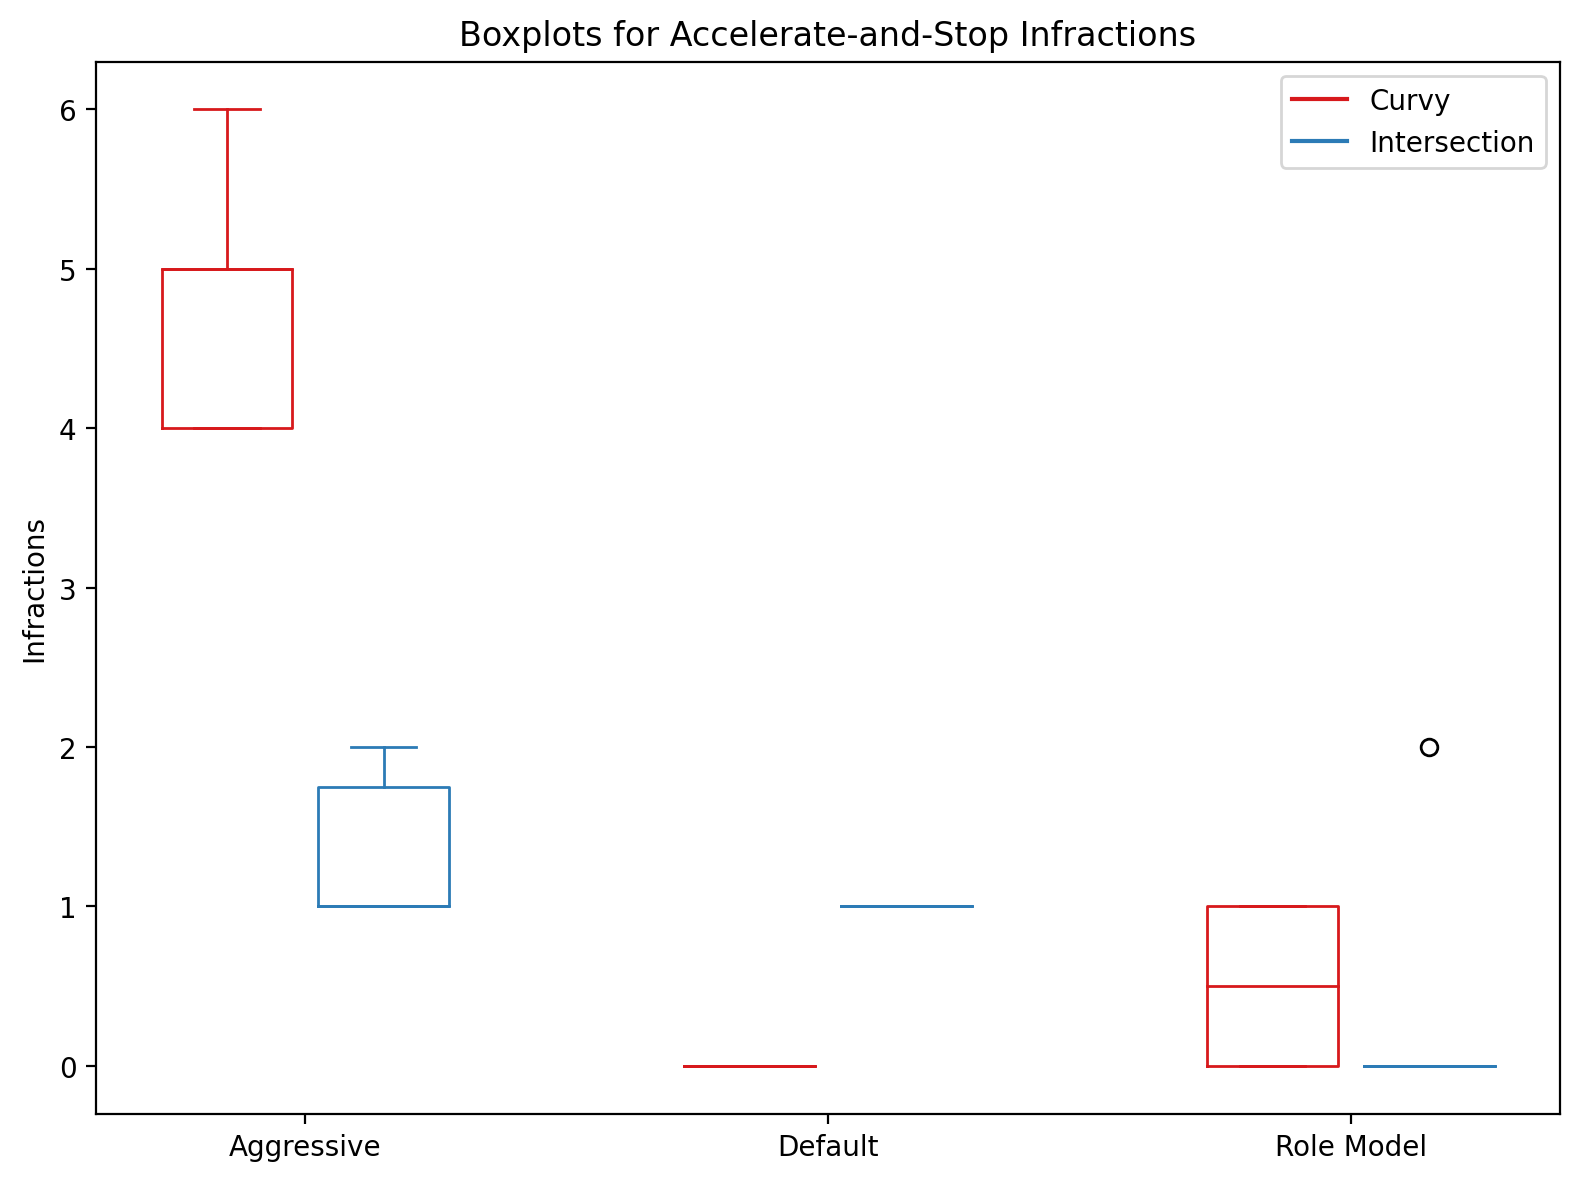
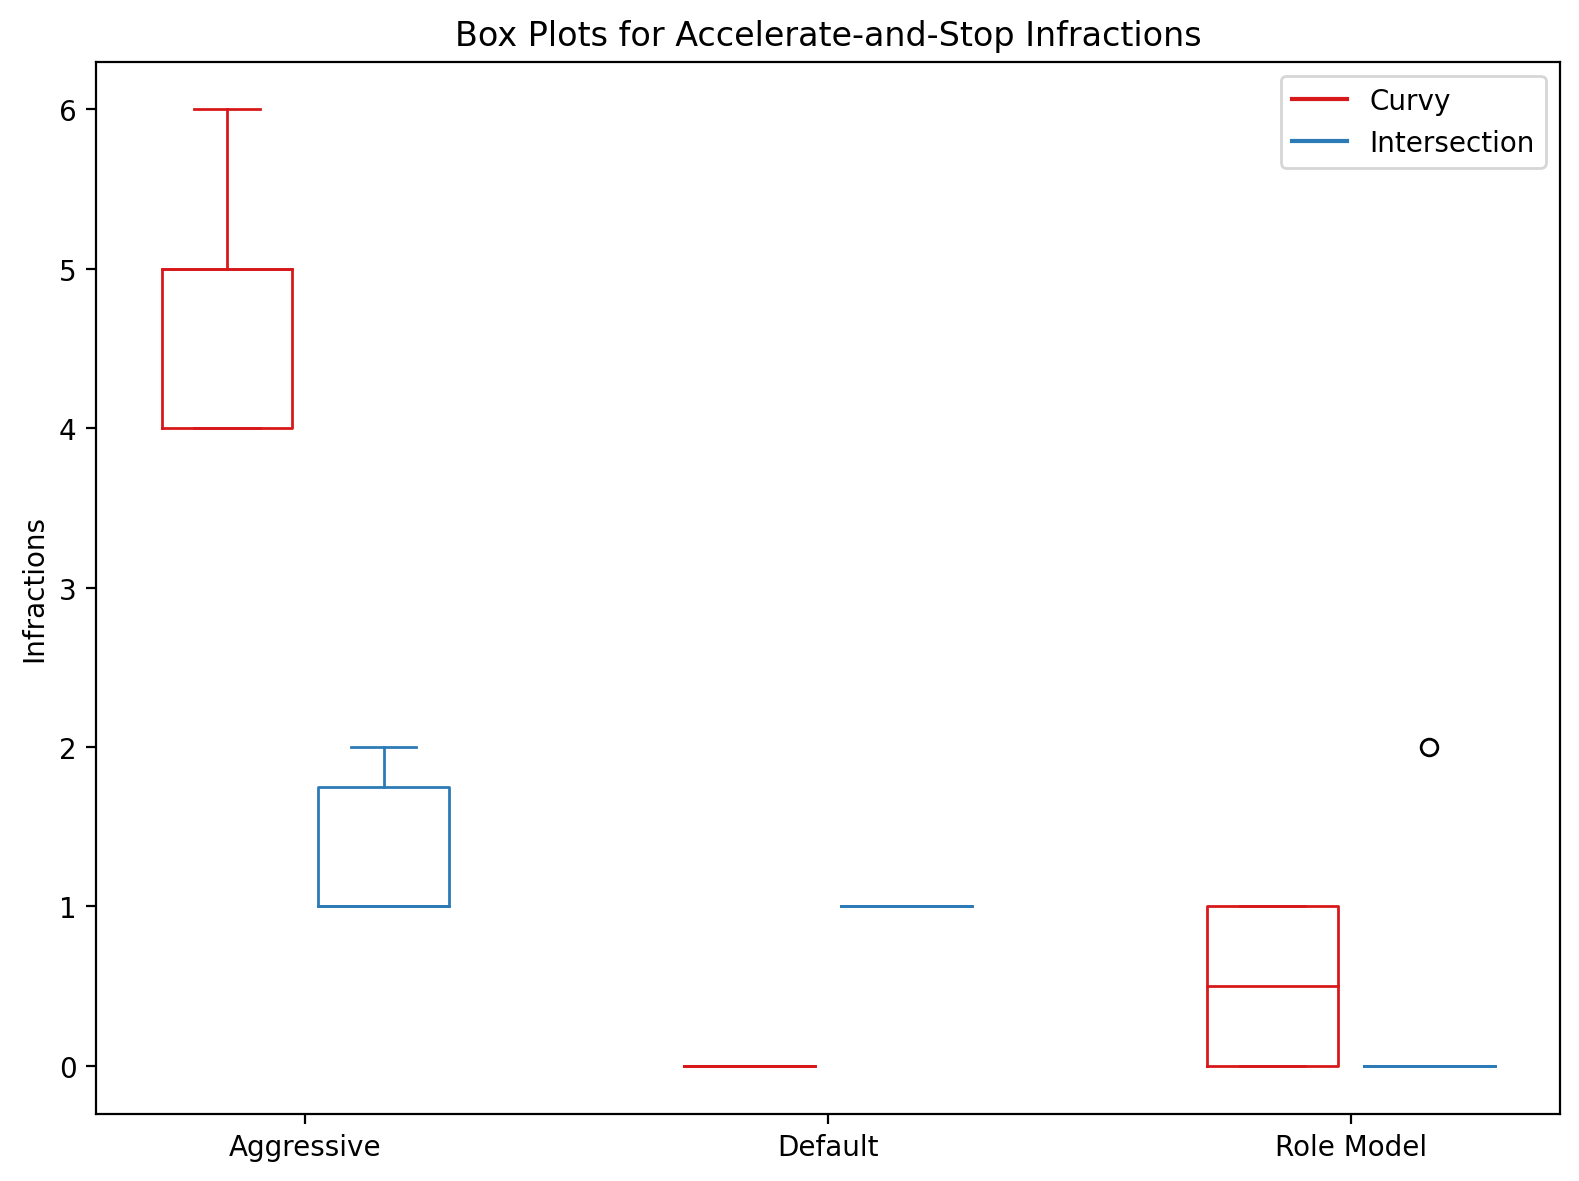
Summarized plots of traffic lights experiment

Changed region(s): [[0.2793, 0.0, 0.7448, 0.061]]

diff --git a/evaluation/traffic_lights/main.py b/evaluation/traffic_lights/main.py
@@ -220,6 +220,8 @@ def visualize_results(test_case_folder, false_predictions, images):
     possibilities = ["Green", "Yellow", "Red", "Yellow-Red", "Off"]
     ind = arange(len(images))
     width = 0.4
+    plt.figure(figsize=(10, 5.3))
+    plt.subplot(1, 2, 1)
     p1 = plt.bar(ind, correct_predictions, width)
     p2 = plt.bar(ind, false_predictions, width, bottom=correct_predictions)
     for xpos, ypos, yval in zip(ind, np_cp / 2, np_cp):
@@ -241,12 +243,11 @@ def visualize_results(test_case_folder, false_predictions, images):
     plt.xticks(ind, possibilities)
     plt.legend((p1[0], p2[0]), ('Correct', 'False'))
     plt.tight_layout()
-    plt.savefig(join(test_case_folder, "result_pictures", 'predictions_per_light_bar.png'), dpi=200)
 
-    plt.clf()
     snum = np_cp + np_fp
     cp_norm = np_cp / snum * 100
     fp_norm = np_fp / snum * 100
+    plt.subplot(1, 2, 2)
     p1 = plt.bar(ind, cp_norm, width=width, label='Correct')
     p2 = plt.bar(ind, fp_norm, width=width, bottom=cp_norm, label='False')
     for xpos, ypos, yval in zip(ind, cp_norm / 2, cp_norm):
@@ -267,7 +268,11 @@ def visualize_results(test_case_folder, false_predictions, images):
     plt.title('Relations between Correct and False Predictions')
     plt.xticks(ind, possibilities)
     plt.legend((p1[0], p2[0]), ('Correct', 'False'), loc="upper left", bbox_to_anchor=(0, 0.95), framealpha=0.9)
-    plt.savefig(join(test_case_folder, "result_pictures", 'norm_predictions_per_light_bar.png'), dpi=200)
+    plt.tight_layout()
+    plt.subplots_adjust(top=0.88)
+    plt.suptitle("Test case \"{}\"".format(test_case_folder), fontsize=14)
+    plt.savefig(join(test_case_folder, "result_pictures", test_case_folder + '_predictions_per_light_bar.png'),
+                dpi=200)
 
 
 def plot_confusion_matrix(pred, y_test, test_case, save_path):
@@ -301,8 +306,8 @@ def plot_confusion_matrix(pred, y_test, test_case, save_path):
 
 if __name__ == '__main__':
     # create_tests(1, True)
-    collect_images_existing_tests(join("random", "test_case_*"))
-    predict_all_images(join("random", "test_case_*"))
+    # collect_images_existing_tests(join("random", "test_case_*"))
+    # predict_all_images(join("random", "test_case_*"))
     # collect_images_existing_tests(join("daylight", "test_case_*"))
     # predict_all_images(join("daylight", "test_case_*"))
     # collect_images_existing_tests(join("nighttime", "test_case_*"))

diff --git a/evaluation/fuel_inefficiency/main.py b/evaluation/fuel_inefficiency/main.py
@@ -184,15 +184,15 @@ def visualize_results(results):
                 boxplot_settings(bpl, bpr, profiles)
                 file_name = val + '_infraction_boxplots.png'
                 if val == "rpm":
-                    title = 'Boxplots for RPM Infractions'
+                    title = 'Box Plots for RPM Infractions'
                 elif val == "throttle":
-                    title = 'Boxplots for Throttle Infractions'
+                    title = 'Box Plots for Throttle Infractions'
                 elif val == "brake":
-                    title = 'Boxplots for Brake Infractions'
+                    title = 'Box Plots for Brake Infractions'
                 elif val == "engine_idle":
-                    title = 'Boxplots for Engine Idling Infractions'
+                    title = 'Box Plots for Engine Idling Infractions'
                 elif val == "accelerate_and_stop":
-                    title = 'Boxplots for Accelerate-and-Stop Infractions'
+                    title = 'Box Plots for Accelerate-and-Stop Infractions'
                 elif val == "infractions":
                     title = "Total Number of Infractions"
                     file_name = "infractions_boxplots.png"
